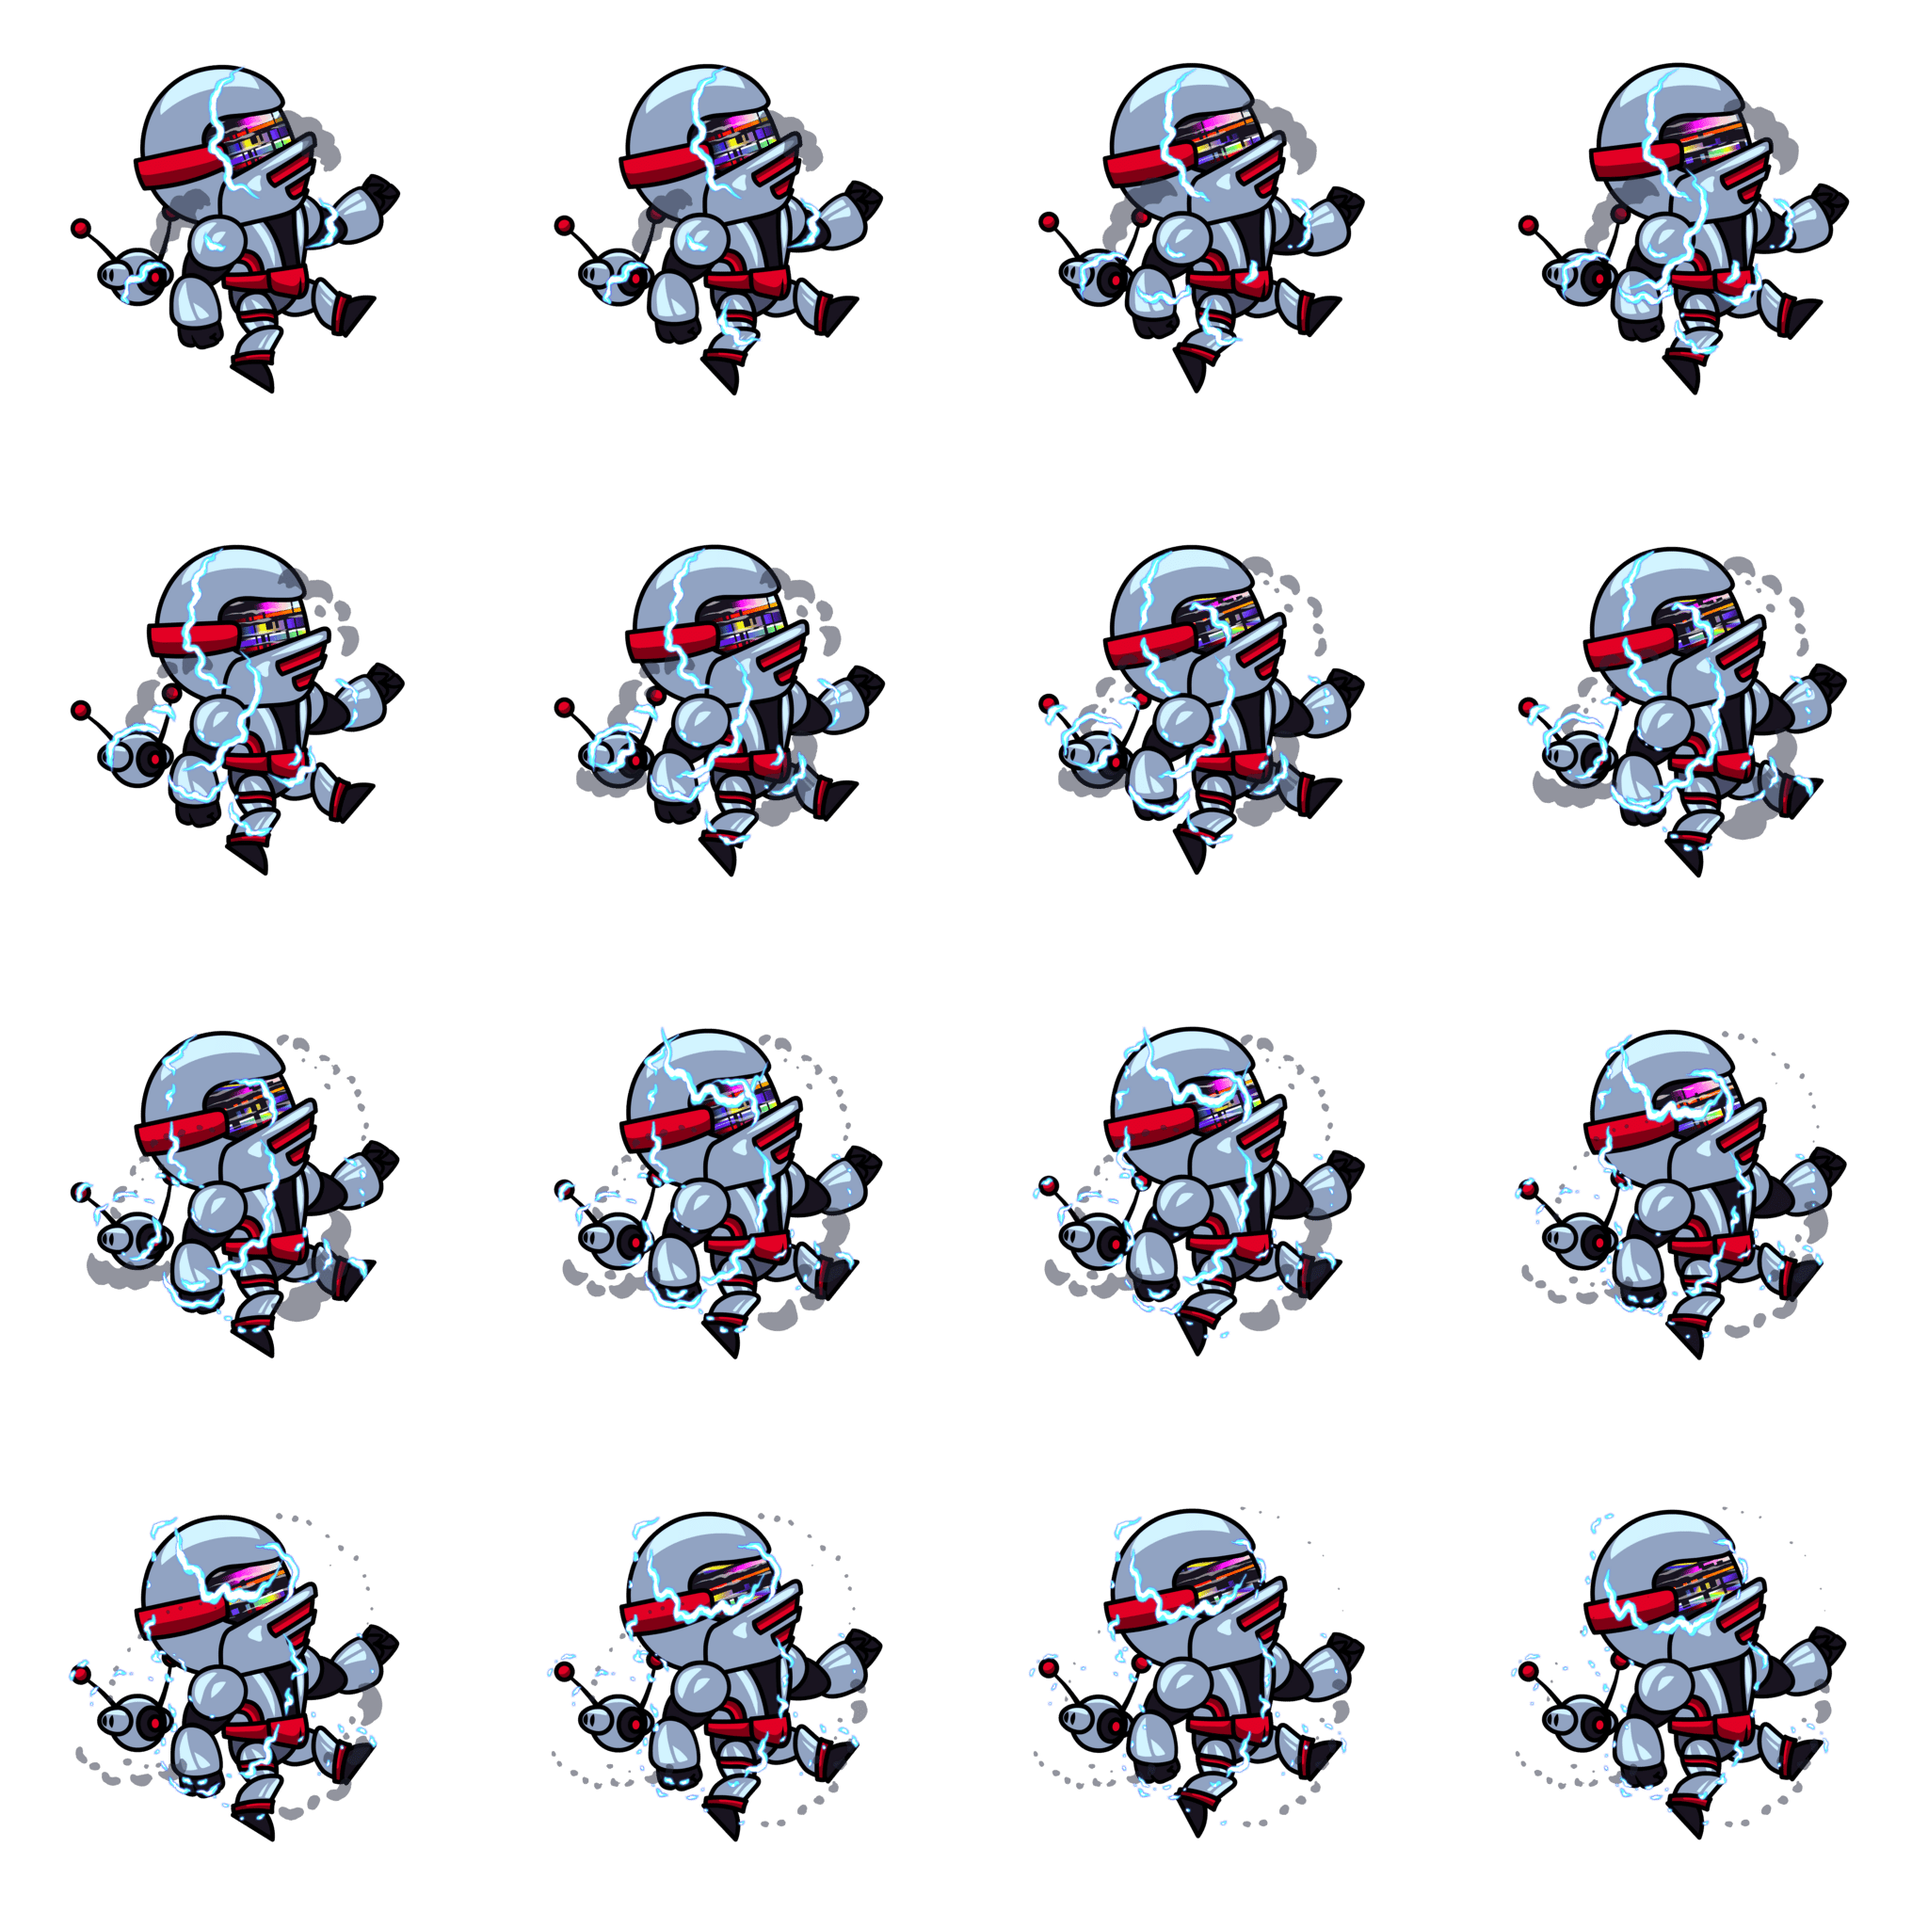
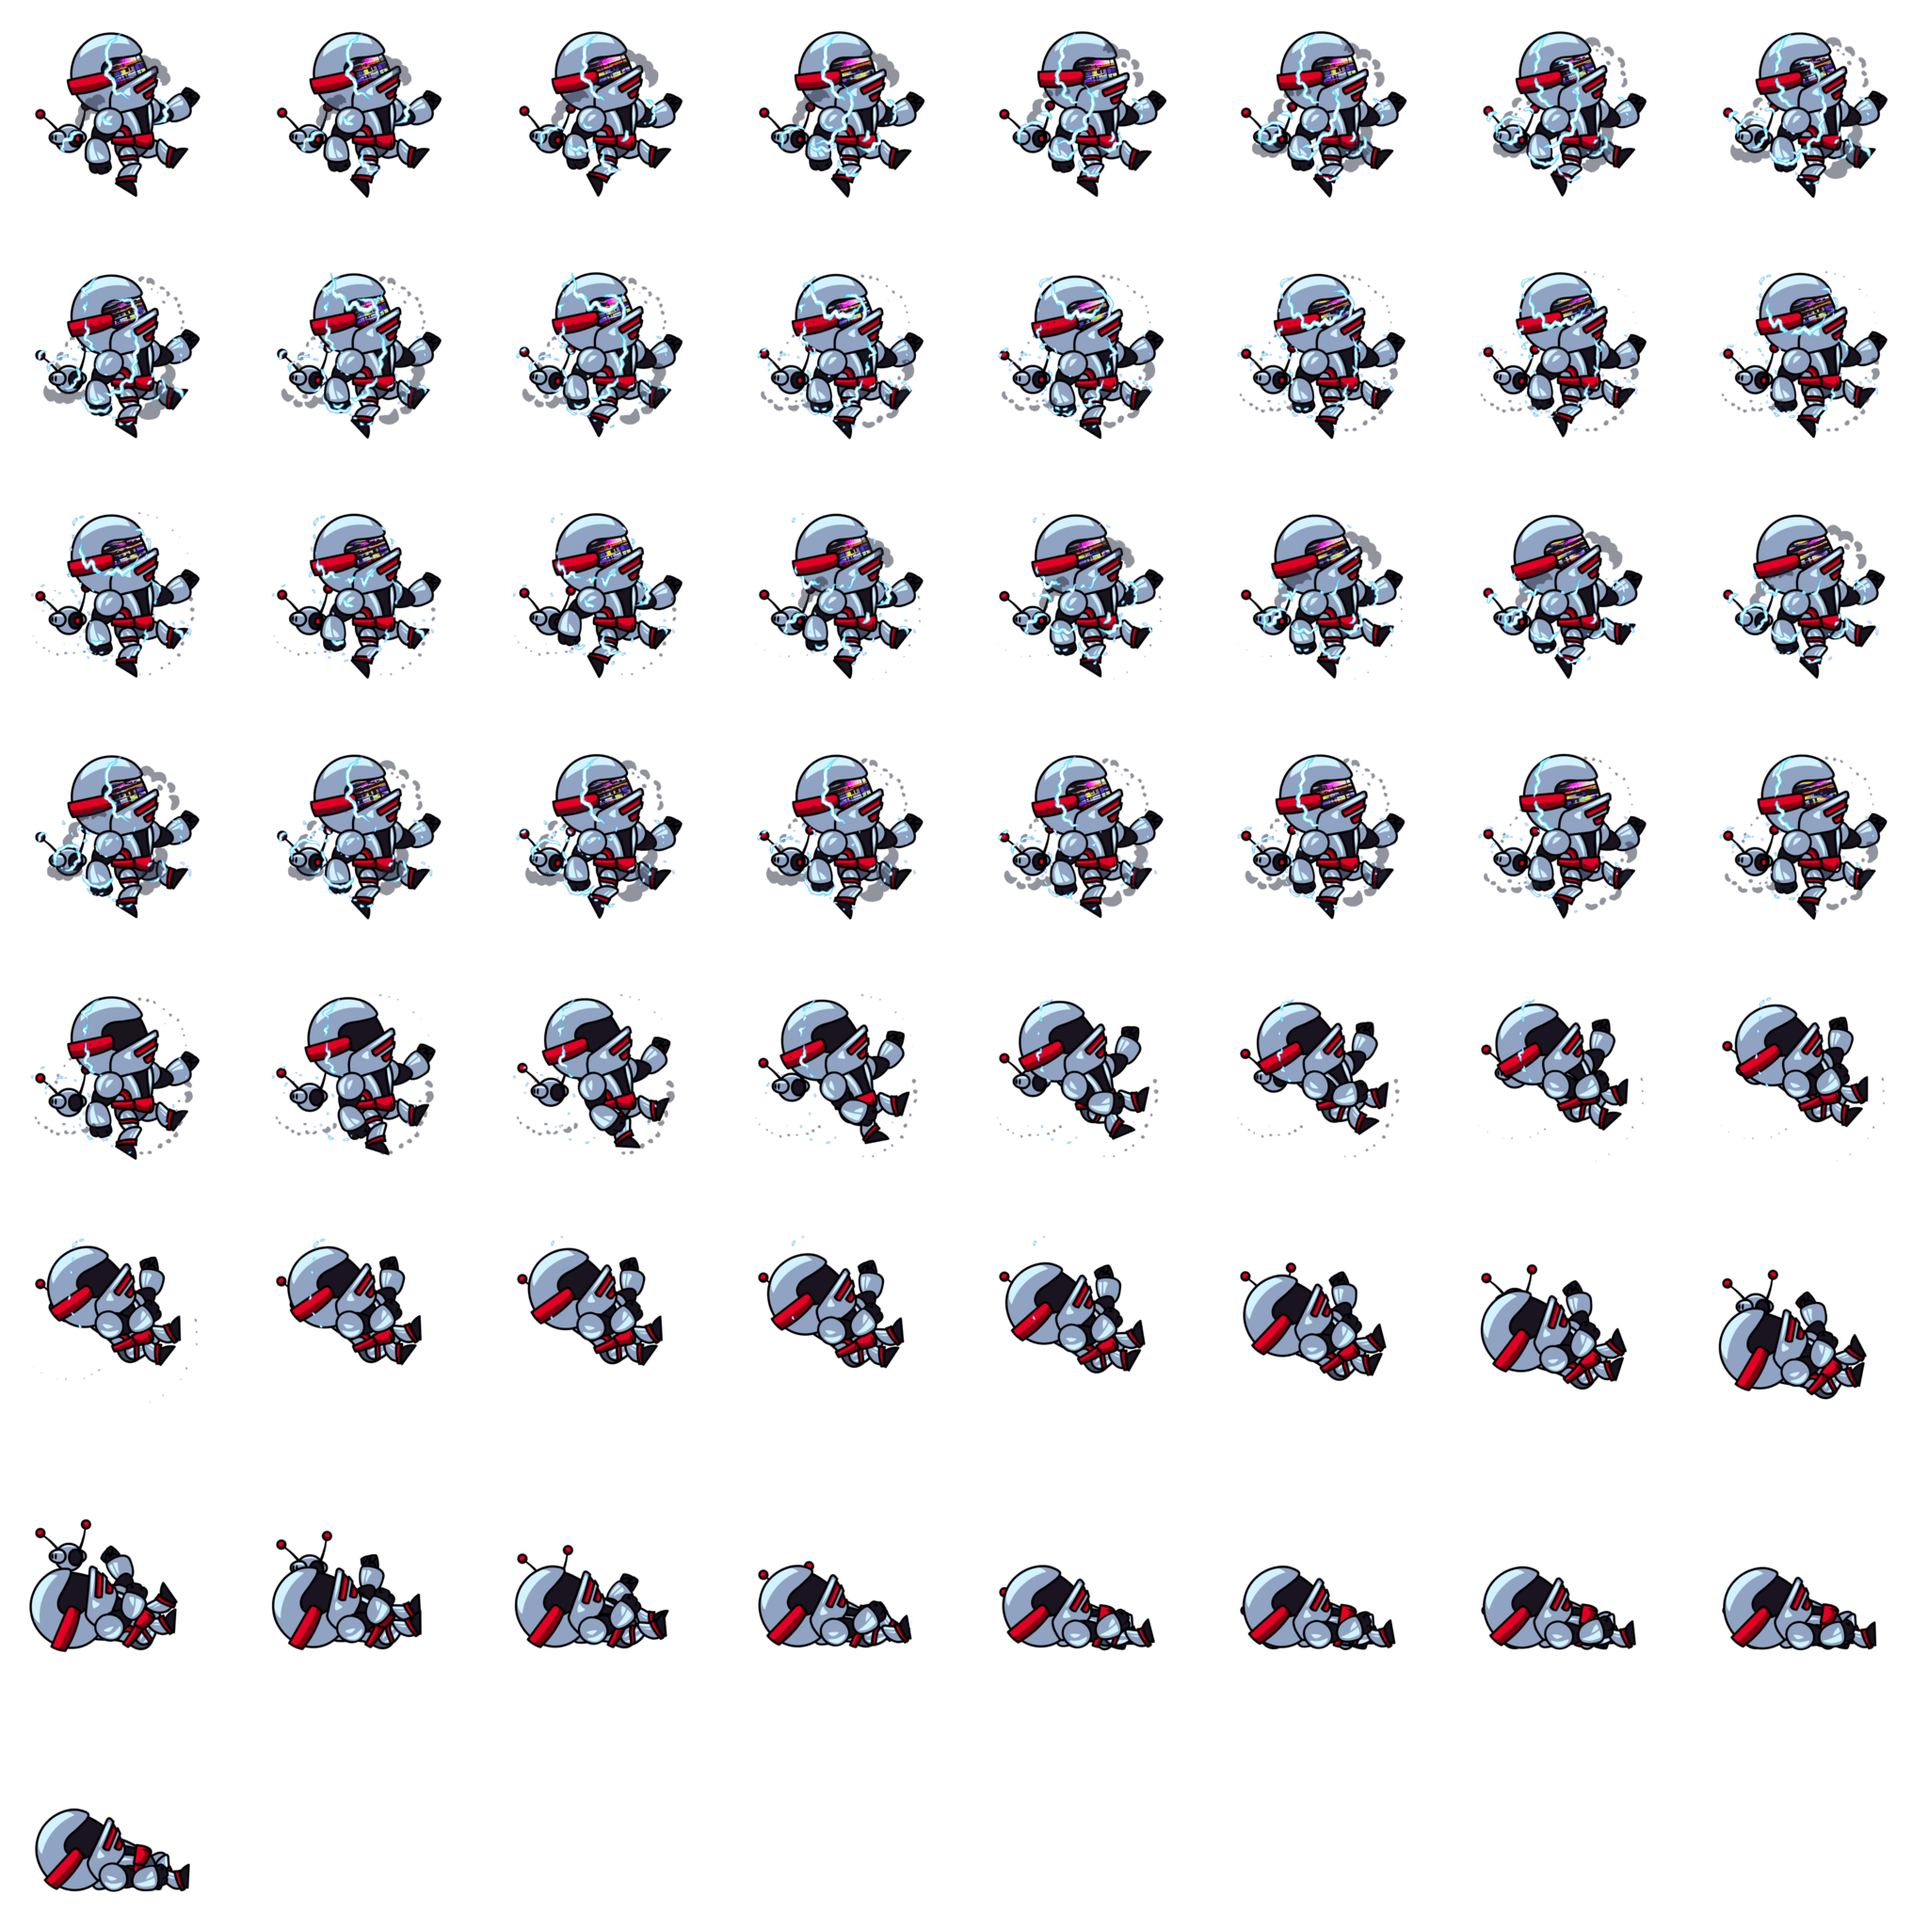
Image compressions and resizings, as well as other tricks used to bring loading speed down from 1.77 minutes to 0.38 seconds on web.

diff --git a/lib/runner.dart b/lib/runner.dart
@@ -565,68 +565,47 @@ class Runner extends Component with HasGameRef<MyGame> {
 
   // Load all of the runners animations.
   Future load() async {
-    List<Image> satellites = [];
-    for (int i = 1; i <= 38; i++) {
-      satellites.add(await Flame.images.load(
-          'runner/satellite/satellite00${i < 10 ? "0" + i.toString() : i.toString()}.png'));
-    }
-
     SpriteAnimation running = await loadSpriteAnimation("run", 38,
-        satellites: satellites, sheets: 3, frameSize: Vector2(512, 512));
+        sheets: 1, frameSize: Vector2(256, 256));
 
     SpriteAnimation jumping = await loadSpriteAnimation("jump", 6,
-        satellites: satellites,
-        loop: false,
-        sheets: 1,
-        frameSize: Vector2(512, 512));
+        loop: false, sheets: 1, frameSize: Vector2(256, 256));
 
     SpriteAnimation ducking = await loadSpriteAnimation("duck1", 38,
-        satellites: satellites, sheets: 3, frameSize: Vector2(512, 512));
+        sheets: 1, frameSize: Vector2(256, 256));
 
     SpriteAnimation ducking2 = await loadSpriteAnimation("duck2", 38,
-        satellites: satellites, sheets: 3, frameSize: Vector2(512, 512));
+        sheets: 1, frameSize: Vector2(256, 256));
 
     SpriteAnimation ducking3 = await loadSpriteAnimation("duck3", 38,
-        satellites: satellites, sheets: 3, frameSize: Vector2(512, 512));
+        sheets: 1, frameSize: Vector2(256, 256));
 
     SpriteAnimation kicking = await loadSpriteAnimation("attack1", 38,
-        satellites: satellites,
-        loop: false,
-        sheets: 3,
-        frameSize: Vector2(512, 512));
+        loop: false, sheets: 1, frameSize: Vector2(256, 256));
 
     SpriteAnimation kicking2 = await loadSpriteAnimation("attack2", 38,
-        satellites: satellites,
-        loop: false,
-        sheets: 3,
-        frameSize: Vector2(512, 512));
+        loop: false, sheets: 1, frameSize: Vector2(256, 256));
 
     SpriteAnimation kicking3 = await loadSpriteAnimation("attack3", 38,
-        satellites: satellites,
-        loop: false,
-        sheets: 3,
-        frameSize: Vector2(512, 512));
+        loop: false, sheets: 1, frameSize: Vector2(256, 256));
 
     SpriteAnimation floating = await loadSpriteAnimation("hover1", 44,
-        satellites: satellites, sheets: 3, frameSize: Vector2(512, 512));
+        sheets: 1, frameSize: Vector2(256, 256));
 
     SpriteAnimation floating2 = await loadSpriteAnimation("hover2", 44,
-        satellites: satellites, sheets: 3, frameSize: Vector2(512, 512));
+        sheets: 1, frameSize: Vector2(256, 256));
 
     SpriteAnimation floating3 = await loadSpriteAnimation("hover3", 44,
-        satellites: satellites, sheets: 3, frameSize: Vector2(512, 512));
+        sheets: 1, frameSize: Vector2(256, 256));
 
     SpriteAnimation falling = await loadSpriteAnimation("fall", 20,
-        satellites: satellites,
-        loop: false,
-        sheets: 2,
-        frameSize: Vector2(512, 512));
+        loop: false, sheets: 1, frameSize: Vector2(256, 256));
 
     SpriteAnimation dying = await loadSpriteAnimation("death2", 57,
-        loop: false, sheets: 4, frameSize: Vector2(512, 512));
+        loop: false, sheets: 1, frameSize: Vector2(256, 256));
 
     SpriteAnimation dyingGlitch = await loadSpriteAnimation("death1", 82,
-        loop: false, sheets: 6, frameSize: Vector2(512, 512));
+        loop: false, sheets: 2, frameSize: Vector2(256, 256));
 
     sprite = SpriteAnimationGroupComponent(
       animations: {

diff --git a/lib/holders/platform_holder.dart b/lib/holders/platform_holder.dart
@@ -20,22 +20,17 @@ class PlatformHolder extends Holder {
 
   @override
   Future load() async {
-    l1 = await loadListSprites("platform", "platform-left-nowire-frames", 5,
-        sheets: 1, frameSize: Vector2(1000, 807));
-    l2 = await loadListSprites("platform", "platform-left-wire-frames", 5,
-        sheets: 1, frameSize: Vector2(1000, 807));
-    m1 = await loadListSprites("platform", "platform-mid-nowire-frames", 5,
-        sheets: 1, frameSize: Vector2(1000, 807));
-    m2 = await loadListSprites("platform", "platform-mid-wire-frames", 5,
-        sheets: 1, frameSize: Vector2(1000, 807));
-    r1 = await loadListSprites("platform", "platform-right-nowire-frames", 5,
-        sheets: 1, frameSize: Vector2(1000, 807));
-    r2 = await loadListSprites("platform", "platform-right-wire-frames", 5,
-        sheets: 1, frameSize: Vector2(1000, 807));
-    o1 = await loadListSprites("platform", "platform-single-nowire-frames", 5,
-        sheets: 1, frameSize: Vector2(1000, 807));
-    o2 = await loadListSprites("platform", "platform-single-wire-frames", 5,
-        sheets: 1, frameSize: Vector2(1000, 807));
+    List<Sprite> allPlatforms = await loadListSprites(
+        "platform", "platforms", 40,
+        sheets: 1, frameSize: Vector2(318, 256));
+    l1 = allPlatforms.sublist(0, 5);
+    l2 = allPlatforms.sublist(5, 10);
+    m1 = allPlatforms.sublist(10, 15);
+    m2 = allPlatforms.sublist(15, 20);
+    r1 = allPlatforms.sublist(20, 25);
+    r2 = allPlatforms.sublist(25, 30);
+    o1 = allPlatforms.sublist(30, 35);
+    o2 = allPlatforms.sublist(35, 40);
   }
 
   @override
